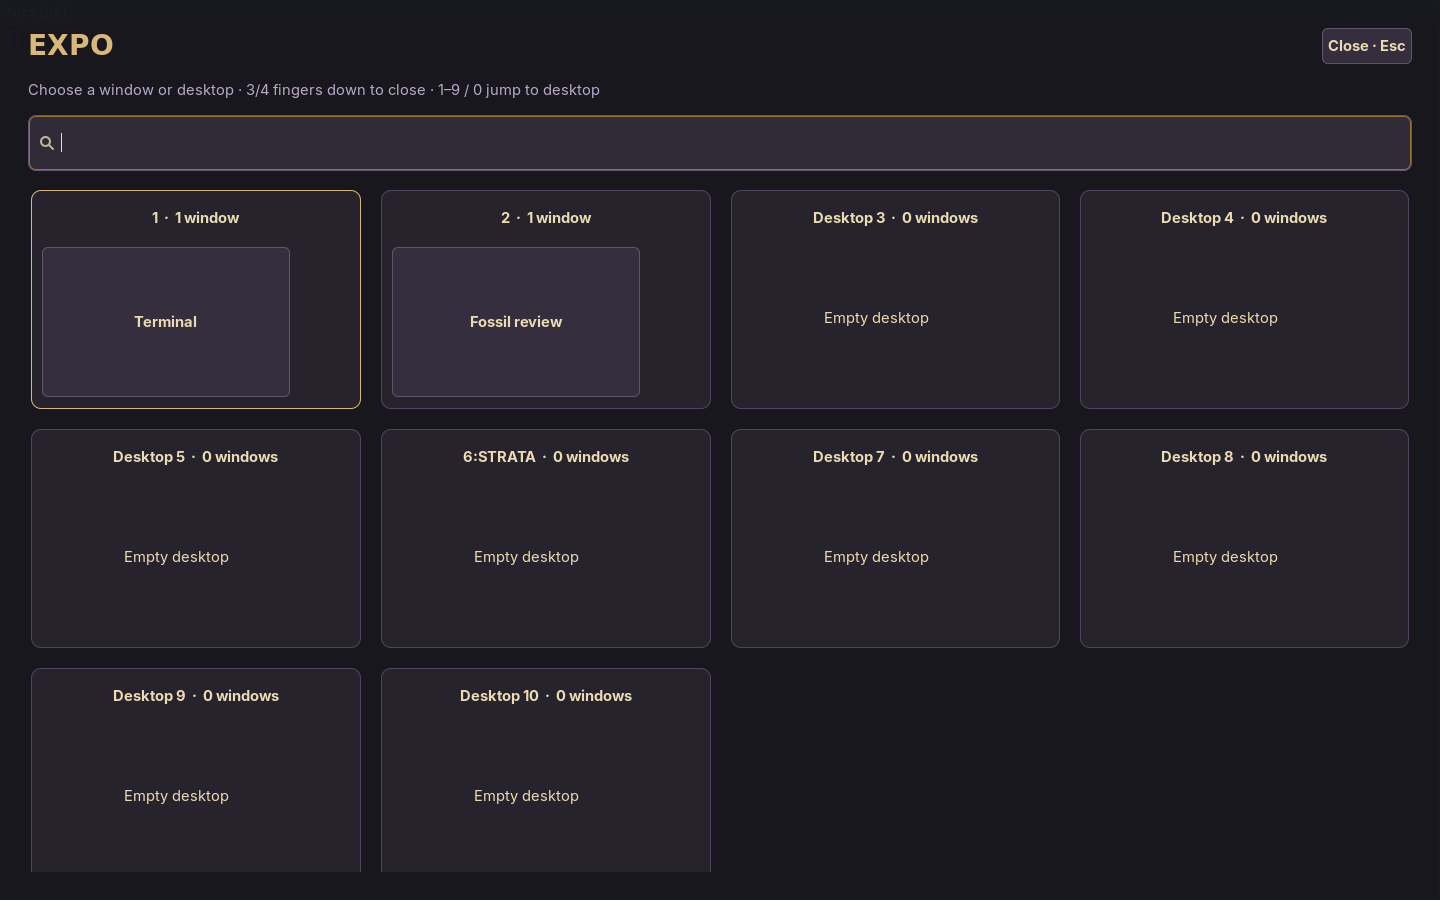
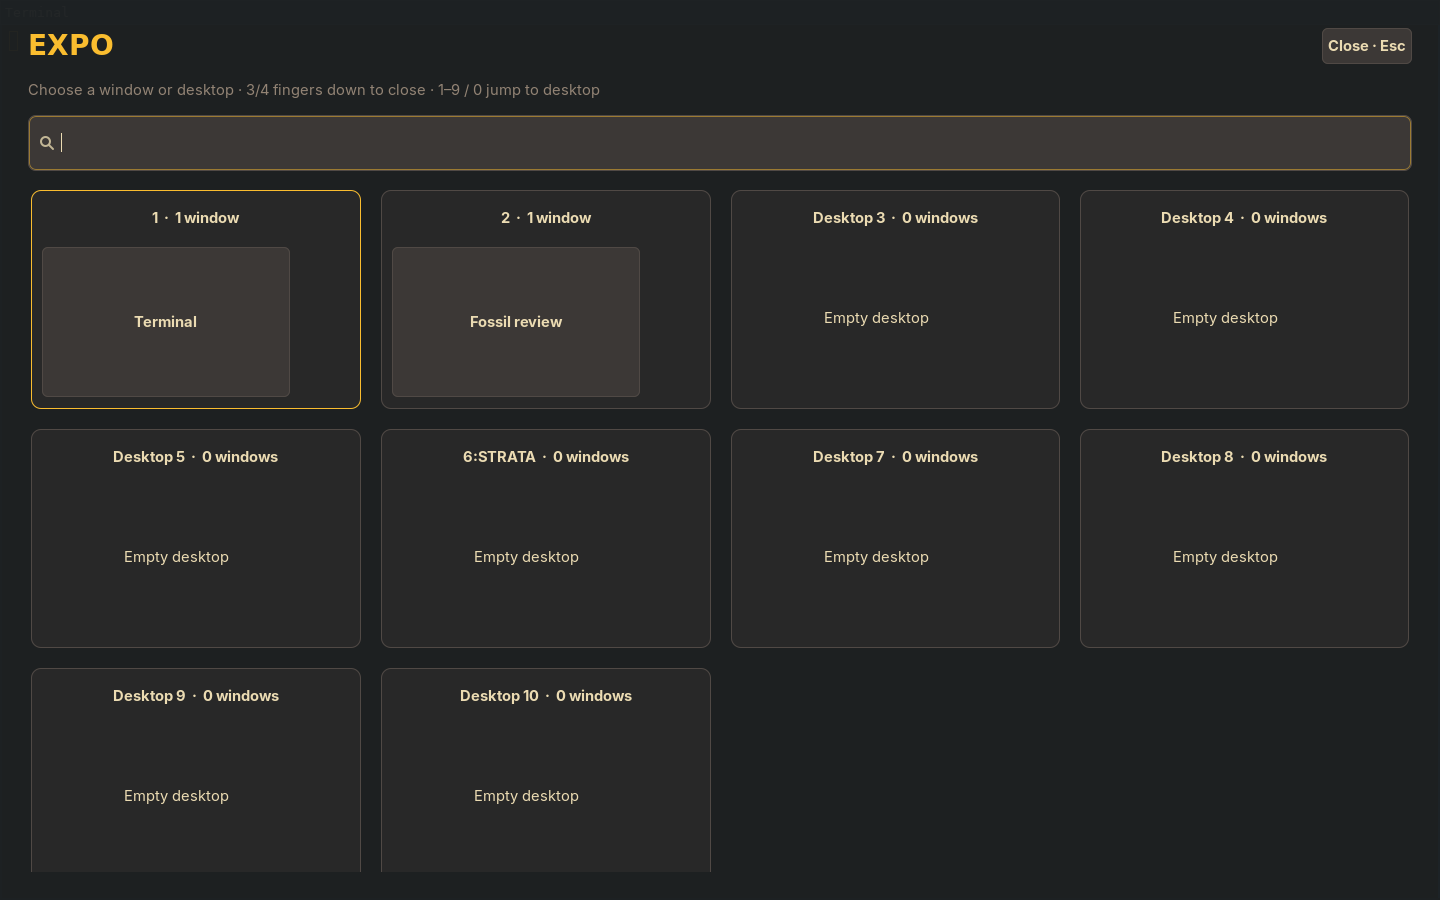
theme: follow the active palette in Expo and Super-hold
FossilOrigin-Name: 66093474e702bea75dbc9a3b185261358dcfd748f61a2eba8c54770c09883b13

Changed region(s): [[0.0312, 0.0933, 0.2812, 0.1244], [0.3125, 0.0933, 0.4062, 0.1244], [0.0, 0.0311, 0.0938, 0.0622]]

diff --git a/alpine/tests/test_overlay_theme.py b/alpine/tests/test_overlay_theme.py
@@ -1,0 +1,69 @@
+import json
+import os
+from pathlib import Path
+import runpy
+import tempfile
+import unittest
+
+MODULE=Path(__file__).resolve().parents[1]/'desktop/.local/lib/oldbook/overlay_theme.py'
+
+
+class OverlayThemeTests(unittest.TestCase):
+    def setUp(self):
+        self.assertTrue(MODULE.exists(),'Overlays need a shared active-theme source')
+        self.api=runpy.run_path(str(MODULE))
+        self.temp=tempfile.TemporaryDirectory();self.addCleanup(self.temp.cleanup)
+        self.themes=Path(self.temp.name)
+        (self.themes/'current').write_text('warm')
+        (self.themes/'warm.json').write_text(json.dumps({'palette':{'background':'#282828',
+            'surface':'#3c3836','foreground':'#ebdbb2','yellow':'#fabd2f'}}))
+
+    def test_theme_switch_updates_surface_and_accent_without_restart(self):
+        first=self.api['read_palette'](self.themes)
+        self.assertEqual(first['accent'],'#fabd2f')
+        (self.themes/'cool.json').write_text(json.dumps({'palette':{'background':'#13091f','foreground':'#eaddf5','accent':'#dca7ff'}}))
+        (self.themes/'current').write_text('cool')
+        second=self.api['read_palette'](self.themes)
+        self.assertEqual(second['background'],'#13091f')
+        self.assertEqual(second['accent'],'#dca7ff')
+        self.assertNotEqual(first,second)
+
+    def test_invalid_theme_cannot_inject_css(self):
+        (self.themes/'warm.json').write_text(json.dumps({'palette':{'background':'red; } * { color: red'}}))
+        palette=self.api['read_palette'](self.themes)
+        self.assertTrue(all(value.startswith('#') and len(value)==7 for value in palette.values()))
+        (self.themes/'current').write_text('../outside')
+        self.assertEqual(self.api['read_palette'](self.themes),self.api['FALLBACK'])
+
+    def test_qt_and_gtk_consume_the_same_theme(self):
+        os.environ.setdefault('QT_QPA_PLATFORM','offscreen')
+        from PyQt6.QtWidgets import QApplication
+        from PyQt6.QtGui import QPalette
+        self.app=QApplication.instance() or QApplication([])
+        palette=self.api['read_palette'](self.themes)
+        qt=self.api['qt_palette'](self.app.palette(),palette)
+        self.assertEqual(qt.color(QPalette.ColorRole.Window).name(),'#282828')
+        self.assertEqual(qt.color(QPalette.ColorRole.Highlight).name(),'#fabd2f')
+        css=self.api['gtk_css']('window { color: @theme_foreground; }',palette)
+        self.assertIn(b'@define-color theme_foreground #ebdbb2;',css)
+
+    def test_running_qt_overlay_refreshes_after_palette_edit(self):
+        os.environ.setdefault('QT_QPA_PLATFORM','offscreen')
+        from PyQt6.QtWidgets import QApplication
+        from PyQt6.QtGui import QPalette
+        app=QApplication.instance() or QApplication([])
+        original=app.palette()
+        function=self.api['follow_qt_theme']
+        globals_=function.__globals__
+        reader=globals_['read_palette']
+        globals_['read_palette']=lambda: reader(self.themes)
+        try:
+            function(app)
+            self.assertEqual(app.palette().color(QPalette.ColorRole.Window).name(),'#282828')
+            (self.themes/'warm.json').write_text(json.dumps({'palette':{'background':'#112233'}}))
+            app.oldbook_theme_timer.timeout.emit()
+            self.assertEqual(app.palette().color(QPalette.ColorRole.Window).name(),'#112233')
+        finally:
+            app.oldbook_theme_timer.stop()
+            app.setPalette(original)
+            globals_['read_palette']=reader

diff --git a/alpine/desktop/.local/lib/oldbook/overlay_theme.py b/alpine/desktop/.local/lib/oldbook/overlay_theme.py
@@ -1,0 +1,69 @@
+"""Share the active Oldbook palette across GTK and Qt overlays."""
+import json
+from pathlib import Path
+import re
+
+THEMES = Path(__file__).resolve().parents[5] / 'alpine/themes'
+FALLBACK = {'background': '#202020', 'background_hard': '#181818', 'surface': '#303030',
+            'foreground': '#eeeeee', 'muted': '#aaaaaa', 'border': '#505050', 'accent': '#dddddd'}
+
+
+def read_palette(directory=THEMES):
+    try:
+        identity = (directory / 'current').read_text().strip()
+        if not re.fullmatch(r'[a-z0-9][a-z0-9-]{0,63}', identity):
+            return dict(FALLBACK)
+        source = json.loads((directory / (identity + '.json')).read_text())['palette']
+        colors = {key: value for key, value in source.items()
+                  if isinstance(value, str) and re.fullmatch(r'#[0-9a-fA-F]{6}', value)}
+        background = colors.get('background', FALLBACK['background'])
+        foreground = colors.get('foreground', FALLBACK['foreground'])
+        surface = colors.get('surface', background)
+        return {'background': background, 'foreground': foreground,
+                'background_hard': colors.get('background_hard', background),
+                'surface': surface, 'border': colors.get('border', surface),
+                'muted': colors.get('muted', foreground),
+                'accent': colors.get('accent', colors.get('yellow', foreground))}
+    except (OSError, ValueError, KeyError, AttributeError, TypeError):
+        return dict(FALLBACK)
+
+
+def gtk_css(template, palette):
+    definitions = '\n'.join('@define-color theme_' + key + ' ' + value + ';'
+                            for key, value in palette.items())
+    return (definitions + '\n' + template).encode()
+
+
+def qt_palette(base, palette):
+    from PyQt6.QtGui import QColor, QPalette
+    result = QPalette(base)
+    roles = {'Window': 'background', 'WindowText': 'foreground', 'Base': 'background_hard',
+             'AlternateBase': 'surface', 'Text': 'foreground', 'Button': 'surface',
+             'ButtonText': 'foreground', 'Highlight': 'accent', 'HighlightedText': 'background_hard',
+             'ToolTipBase': 'surface', 'ToolTipText': 'foreground', 'PlaceholderText': 'muted',
+             'Light': 'border', 'Midlight': 'surface', 'Mid': 'border', 'Dark': 'background_hard',
+             'Shadow': 'background_hard', 'Link': 'accent', 'LinkVisited': 'muted', 'Accent': 'accent'}
+    for group in (QPalette.ColorGroup.Active, QPalette.ColorGroup.Inactive, QPalette.ColorGroup.Disabled):
+        for role, key in roles.items():
+            if group == QPalette.ColorGroup.Disabled and role in ('WindowText', 'Text', 'ButtonText'):
+                key = 'muted'
+            result.setColor(group, getattr(QPalette.ColorRole, role), QColor(palette[key]))
+    return result
+
+
+def follow_qt_theme(app):
+    """Oldbook-specific adapter; the portable Hold to Help app stays theme-native."""
+    from PyQt6.QtCore import QTimer
+    base = app.palette()
+    previous = None
+    def refresh():
+        nonlocal previous
+        palette = read_palette()
+        if palette != previous:
+            app.setPalette(qt_palette(base, palette))
+            previous = palette
+    timer = QTimer(app)
+    timer.timeout.connect(refresh)
+    timer.start(1000)
+    app.oldbook_theme_timer = timer
+    refresh()

diff --git a/alpine/desktop/.local/lib/oldbook/expo.py b/alpine/desktop/.local/lib/oldbook/expo.py
@@ -96,18 +96,21 @@ def show(ipc, sway, control):
         if focused and geometry.x == focused['x'] and geometry.y == focused['y']:
             GtkLayerShell.set_monitor(window, monitor)
             break
+    from overlay_theme import read_palette, gtk_css
     css = Gtk.CssProvider()
-    css.load_from_data(b'''
-#ghost-expo { background: rgba(24, 23, 29, 0.97); color: #ebdbb2; }
-#expo-title { font: bold 28px sans-serif; color: #d8b879; }
-#expo-hint { color: #b7a9c6; }
-#ghost-expo entry { background: #302b36; color: #ebdbb2; border: 1px solid #645373; border-radius: 8px; padding: 10px; }
-#ghost-expo .workspace { background: #26232c; border: 1px solid #51435e; border-radius: 10px; padding: 10px; }
-#ghost-expo .active { border-color: #d8b879; }
-#ghost-expo button { background: #342e3d; color: #ebdbb2; border: 1px solid #635370; border-radius: 6px; padding: 5px; }
-#ghost-expo button:hover, #ghost-expo button:focus { background: #52405f; border-color: #d8b879; }
+    template = '''
+#ghost-expo { background: alpha(@theme_background_hard, 0.97); color: @theme_foreground; }
+#expo-title { font: bold 28px sans-serif; color: @theme_accent; }
+#expo-hint { color: @theme_muted; }
+#ghost-expo entry { background: @theme_surface; color: @theme_foreground; border: 1px solid @theme_border; border-radius: 8px; padding: 10px; }
+#ghost-expo .workspace { background: @theme_background; border: 1px solid @theme_border; border-radius: 10px; padding: 10px; }
+#ghost-expo .active { border-color: @theme_accent; }
+#ghost-expo button { background: @theme_surface; color: @theme_foreground; border: 1px solid @theme_border; border-radius: 6px; padding: 5px; }
+#ghost-expo button:hover, #ghost-expo button:focus { background: @theme_border; border-color: @theme_accent; }
 #ghost-expo .workspace-title { font-weight: bold; background: transparent; border: 0; }
-''')
+'''
+    theme = read_palette()
+    css.load_from_data(gtk_css(template, theme))
     Gtk.StyleContext.add_provider_for_screen(window.get_screen(), css, Gtk.STYLE_PROVIDER_PRIORITY_APPLICATION)
     root = Gtk.Box(orientation=Gtk.Orientation.VERTICAL, spacing=16)
     root.set_border_width(28)
@@ -154,7 +157,11 @@ def show(ipc, sway, control):
         return item
 
     def refresh(force=False):
-        nonlocal fingerprint
+        nonlocal fingerprint, theme
+        current_theme = read_palette()
+        if current_theme != theme:
+            css.load_from_data(gtk_css(template, current_theme))
+            theme = current_theme
         try:
             tree = ipc['request'](sway, 4)
         except (OSError, RuntimeError):

diff --git a/alpine/themes/README.md b/alpine/themes/README.md
@@ -69,3 +69,16 @@ widget has its own offline build recipe and verified identical package builds.
 Papirus SVGs; the generated overlay, licenses and hashes are versioned too.
 Copy a complete Fossil database backup, including its unversioned artifacts,
 using [the restore instructions](../packages/RESTORE.md).
+
+## Expo and Super-hold palettes
+
+Ghost Expo and the Oldbook Super-hold launcher read the palette selected by
+`alpine/themes/current`. Both refresh their colors while running, within about
+one second of a descriptor or selection change. Gruvbox Dark supplies charcoal
+surfaces, cream text, muted brown labels, and amber highlights. Other descriptors
+use the same semantic roles; compact generated palettes receive matching defaults.
+
+The shared adapter is `desktop/.local/lib/oldbook/overlay_theme.py`. Expo consumes
+GTK named colors; the Oldbook launcher applies Qt palette roles locally to Hold
+to Help. The standalone Hold to Help project retains native platform theming.
+Fonts, window behavior, and shortcut/gesture handling are unchanged.
